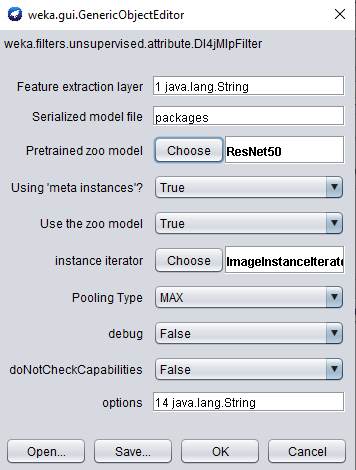
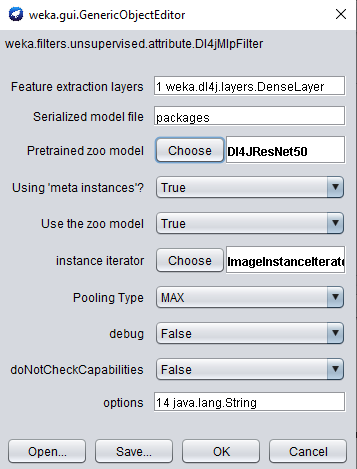
Updated filter tutorial to match filter args changes

diff --git a/docs/examples/featurize-mnist.md b/docs/examples/featurize-mnist.md
@@ -33,18 +33,19 @@ There are 4 pooling methods currently supported:
 These pool the 2nd and 3rd dimension into a single value, i.e., activations of 
 [512, 26, 26] (512 26x26 feature maps) are pooled into shape [512]. You can also specify `PoolingType.NONE`
 which simply flattens the extra dimensions (aforementioned example would become shape [346112]). 
-`PoolingType` does not need to be specified when using the default activation layer - the outputs are already the correct dimensionality.
+`PoolingType` does not need to be specified when using the default activation layer - the outputs are already the
+ correct dimensionality.
 
 ## Example 1: Default MNIST Minimal
 The following example walks through using a pretrained ResNet50 (from the Deeplearning4j model Zoo)
 as a feature extractor on the MNIST dataset, and fitting Weka's Random Forest algorithm to the dataset.
-This only takes ~45 seconds on a modern CPU - much faster than training a neural network from scratch.
+This only takes 1-2 minutes on a modern CPU &mdash; much faster than training a neural network from scratch.
 
 The steps shown below split this into two steps; storing the featurized dataset, and fitting a Weka classifier to the dataset.
-It can obviously be combined into a single command with a filtered classifier, however, the method shown below
+It can be combined into a single command with a filtered classifier, however, the method shown below
 is more efficient as the dataset featurizing (which is the most expensive part of this operation) 
-is only done once (would be done 10 times using 10-fold CV with a FilteredClassifier). It's also
-much faster to swap out different Weka classifiers.
+is only done once (would be done 10 times using 10-fold CV with a FilteredClassifier). It's then
+much faster to try out different Weka classifiers.
 
 Note that the first time this is run, it will need to download the pretrained weights, so actual runtime
 may be longer. 
@@ -55,11 +56,12 @@ $ java -cp $WEKA_HOME/weka.jar weka.Run \
     .Dl4jMlpFilter \
         -i datasets/nominal/mnist.meta.minimal.arff \
         -o mnist-rn50.arff \
-        -c last
+        -c last \
         -decimal 20 \
-        -iterator "weka.dl4j.iterators.instance.ImageInstanceIterator -imagesLocation datasets/nominal/mnist-minimal -bs 1" \
-        -layerName flatten_1 \
-        -zooModel "weka.dl4j.zoo.Dl4JResNet50" 
+        -iterator "weka.dl4j.iterators.instance.ImageInstanceIterator -imagesLocation datasets/nominal/mnist-minimal -bs 12" \
+        -layer-extract "weka.dl4j.layers.DenseLayer -name flatten_1" \
+        -isZoo true 
+        -zooModel "weka.dl4j.zoo.Dl4JResNet50"
 ```
 We now have a standard `.arff` file that can be fit to like any numerical dataset
 ```bash
@@ -77,23 +79,27 @@ Dl4jMlpFilter myFilter = new Dl4jMlpFilter();
 // Create our iterator, pointing it to the location of the images
 ImageInstanceIterator imgIter = new ImageInstanceIterator();
 imgIter.setImagesLocation(new File("datasets/nominal/mnist-minimal"));
-// Featurize 1 instances at a time (increase if machine memory allows)
-imgIter.setTrainBatchSize(1);
+// Set batch size to thread count if using CPU
+imgIter.setTrainBatchSize(12);
 myFilter.setImageInstanceIterator(imgIter);
 
 // Load our pretrained model
-ResNet50 zooModel = new ResNet50();
+Dl4JResNet50 zooModel = new Dl4JResNet50();
 myFilter.setZooModelType(zooModel);
 
 // Run the filter, using the model as a feature extractor
 myFilter.setInputFormat(instances);
 Instances transformedInstances = Filter.useFilter(instances, myFilter);
 
+// You could save the instances at this point to an arff file to be used with other classifiers via:
+// https://waikato.github.io/weka-wiki/formats_and_processing/save_instances_to_arff/
+
 // CV our Random Forest classifier on the extracted features
 Evaluation evaluation = new Evaluation(transformedInstances);
 int numFolds = 10;
 evaluation.crossValidateModel(new RandomForest(), transformedInstances, numFolds, new Random(1));
 System.out.println(evaluation.toSummaryString());
+System.out.println(evaluation.toMatrixString());
 ```
 
 ### GUI
@@ -109,11 +115,13 @@ Then, select the the `Dl4jMlpFilter` in the filter panel. Click in the box to op
 To correctly load the images it is further necessary to select the `Image-Instance-Iterator` as `instance iterator` 
 and point it to the MNIST directory that contains the actual image files (`$WEKA_HOME/packages/wekaDeeplearning4j/datasets/nominal/mnist-minimal/`). 
 
-If you run into memory issues then use a smaller mini-batch size.
+If running on CPU then set mini-batch size to your machine's thread count. 
+If you run into GPU memory issues then use a smaller mini-batch size.
 
 ![Image Instance Iterator](../img/gui/image-instance-iterator.png)
 
-`ResNet50` is already selected as the feature extractor model, and will by default use the final dense layer activations as the image features.
+`Dl4jResNet50` is already selected as the feature extractor model, and will by default use the final dense layer
+ activations as the image features.
 The other filter options can be left as default; they'll be explained in the next example.
 
 Click `Ok` and `Apply` to begin processing your dataset. After completion, you should see your newly processed dataset!
@@ -163,9 +171,9 @@ $ java -cp $WEKA_HOME/weka.jar weka.Run \
         -decimal 20 \
         -iterator "weka.dl4j.iterators.instance.ImageInstanceIterator -imagesLocation datasets/nominal/mnist-minimal -bs 16" \
         -poolingType AVG \
-        -zooModel "weka.dl4j.zoo.Dl4JResNet50" 
-        -layerName res4a_branch2b \
-        -layerName flatten_1 \
+        -zooModel "weka.dl4j.zoo.Dl4JResNet50" \ 
+        -layer-extract "weka.dl4j.layers.DenseLayer -name res4a_branch2b" \
+        -layer-extract "weka.dl4j.layers.DenseLayer -name flatten_1" 
          
 ```
 We now have a standard `.arff` file that can be fit to like any numerical dataset
@@ -200,11 +208,15 @@ myFilter.setImageInstanceIterator(imgIter);
 myFilter.setInputFormat(instances);
 Instances transformedInstances = Filter.useFilter(instances, myFilter);
 
+// You could save the instances at this point to an arff file to be used with other classifiers via:
+// https://waikato.github.io/weka-wiki/formats_and_processing/save_instances_to_arff/
+
 // CV our Random Forest classifier on the extracted features
 Evaluation evaluation = new Evaluation(transformedInstances);
 int numFolds = 10;
 evaluation.crossValidateModel(new RandomForest(), transformedInstances, numFolds, new Random(1));
 System.out.println(evaluation.toSummaryString());
+System.out.println(evaluation.toMatrixString());
 ```
 
 ### GUI
@@ -223,21 +235,27 @@ If you run into memory issues then use a smaller mini-batch size.
 
 ![Image Instance Iterator](../img/gui/image-instance-iterator.png)
 
-`ResNet50` is already selected as the feature extractor model. To add `res4a_branch2b` as another feature extraction layer, we edit the `Feature extraction layer` property:
+`Dl4jResNet50` is already selected as the feature extractor model. To add `res4a_branch2b` as another feature extraction layer, we edit the `Feature extraction layers` property.
+Click to open the array editor, and click the `DenseLayer` specification to open the editor for our new layer.
 
 ![Feature Extraction Layers](../img/gui/featurize-concat-layers.png)
 
-Also make sure to set the `Pooling Type` property to `AVG`.
+When adding another feature extraction layer, only the `layer name` property needs to be set. Click `OK` and `Add` to add the newly created layer:
 
-Click `Ok` and `Apply` to begin processing your dataset. After completion, you should see your newly processed dataset! The attributes are named after the layer they were derived from, so more investigation can be done around attribute selection (e.g., using the `Select Attributes` panel in WEKA)
+![Feature Extraction Layers](../img/gui/featurize-concat-layers2.png)
+
+Note that the order of feature extraction layers may have an effect on accuracy obtained by a WEKA classifier.
+Set the `Pooling Type` property to `AVG`, and click `Ok` and `Apply` to begin processing your dataset. 
+After completion, you should see your newly processed dataset! 
+The attributes are named after the layer they were derived from, so more investigation can be done around which layer provides the most informative features (e.g., using the `Select Attributes` panel in WEKA).
 
 ![Processed Dataset](../img/gui/featurize-concat-processed.png)
 
-Simply switch to the `Classify` tab to start applying different WEKA classifiers (this example uses `RandomForest`) to your newly transformed dataset.  
+Simply switch to the `Classify` tab to start applying different WEKA classifiers (this example uses `RandomForest`) to the newly transformed dataset.  
 
 ### Results
 Unfortunately, adding this extra layer lowered the accuracy (perhaps adding too many unneccessary features). 
-Try playing around with some other layers to try improve the accuracy.
+Try playing around with some other layers/classifiers to try improve the accuracy.
 
 ```text
 Correctly Classified Instances         327               77.8571 %
